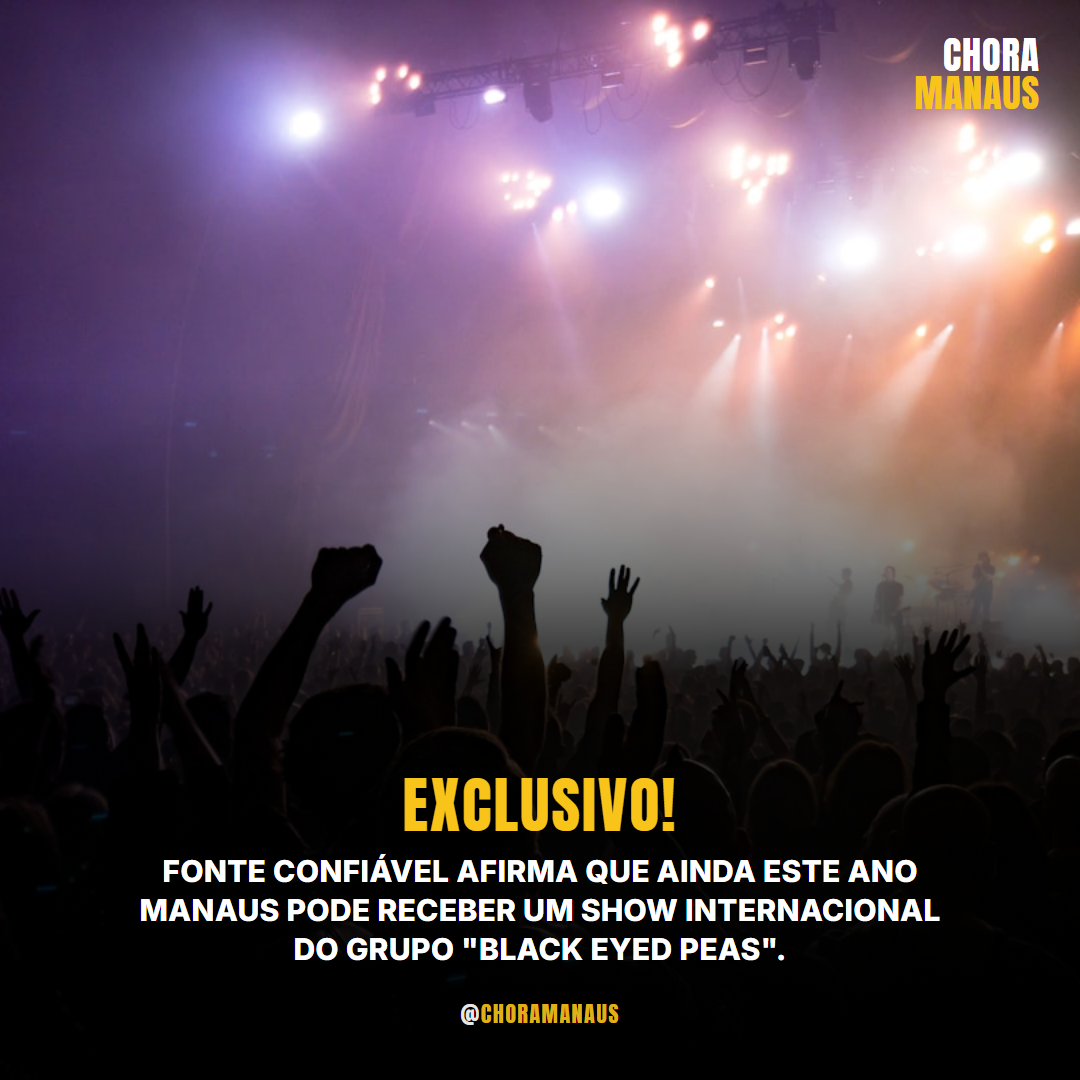
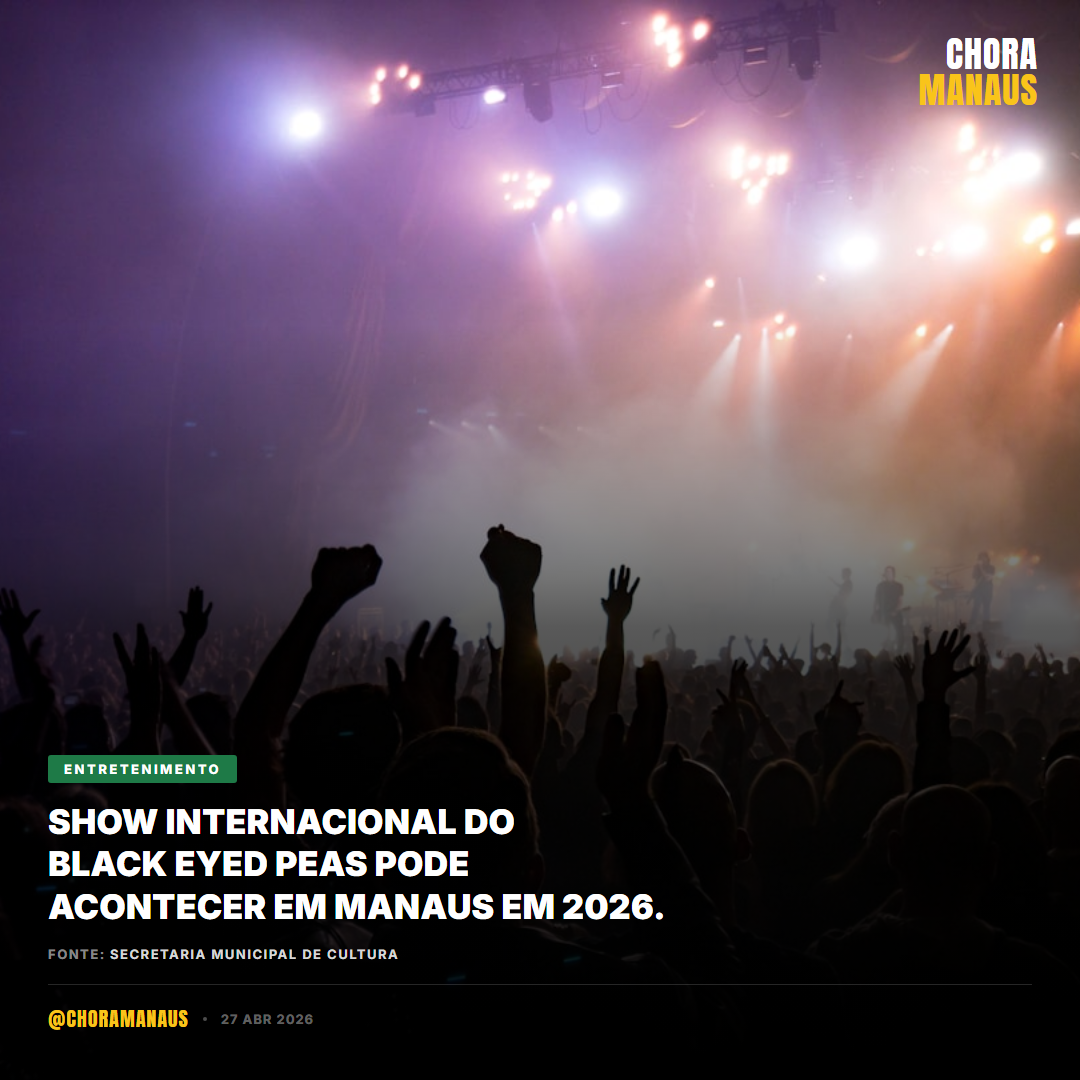
auto-sync: 2026-04-27 17:29

diff --git a/projetos/choramanaus/template-post-feed.html b/projetos/choramanaus/template-post-feed.html
@@ -23,23 +23,23 @@ body {
   overflow: hidden;
 }
 
-/* FOTO DE FUNDO — ocupa tudo */
+/* FOTO DE FUNDO */
 .bg-photo {
   position: absolute;
   inset: 0;
   background: url('https://images.unsplash.com/photo-1540039155733-5bb30b53aa14?w=1080&q=90') center top/cover no-repeat;
 }
 
-/* Gradiente embaixo para o texto aparecer */
+/* Gradiente suave na base */
 .bg-gradient {
   position: absolute;
   inset: 0;
   background: linear-gradient(
     to bottom,
-    rgba(0,0,0,0.0) 0%,
-    rgba(0,0,0,0.0) 35%,
-    rgba(0,0,0,0.75) 60%,
-    rgba(0,0,0,0.97) 100%
+    rgba(0,0,0,0.0)  0%,
+    rgba(0,0,0,0.0)  30%,
+    rgba(0,0,0,0.65) 58%,
+    rgba(0,0,0,0.95) 100%
   );
 }
 
@@ -47,7 +47,7 @@ body {
 .logo {
   position: absolute;
   top: 36px;
-  right: 40px;
+  right: 42px;
   text-align: right;
   z-index: 10;
   line-height: 1;
@@ -55,7 +55,7 @@ body {
 
 .logo-top {
   font-family: 'Anton', sans-serif;
-  font-size: 38px;
+  font-size: 36px;
   color: #fff;
   letter-spacing: 1px;
   text-transform: uppercase;
@@ -64,7 +64,7 @@ body {
 
 .logo-bottom {
   font-family: 'Anton', sans-serif;
-  font-size: 38px;
+  font-size: 36px;
   color: #F9C41A;
   letter-spacing: 1px;
   text-transform: uppercase;
@@ -78,46 +78,79 @@ body {
   left: 0;
   right: 0;
   z-index: 10;
-  padding: 0 48px 50px;
-  text-align: center;
+  padding: 0 48px 46px;
 }
 
-/* Tag tipo "EXCLUSIVO!" */
-.tag {
-  font-family: 'Anton', sans-serif;
-  font-size: 62px;
-  color: #F9C41A;
+/* Categoria — substituindo "EXCLUSIVO!" */
+.categoria {
+  display: inline-block;
+  background: #1E7A47;
+  color: #fff;
+  font-size: 13px;
+  font-weight: 800;
   text-transform: uppercase;
-  letter-spacing: 2px;
-  line-height: 1;
-  margin-bottom: 16px;
-  display: block;
+  letter-spacing: 2.5px;
+  padding: 6px 16px;
+  border-radius: 3px;
+  margin-bottom: 18px;
 }
 
-/* Manchete */
+/* Manchete — factual, sem clickbait */
 .headline {
   font-family: 'Inter', sans-serif;
-  font-size: 30px;
-  font-weight: 800;
+  font-size: 34px;
+  font-weight: 900;
   color: #fff;
   text-transform: uppercase;
-  line-height: 1.3;
-  letter-spacing: 0.3px;
-  margin-bottom: 28px;
+  line-height: 1.25;
+  letter-spacing: 0.2px;
+  margin-bottom: 18px;
 }
 
-/* Handle */
+/* Fonte da notícia */
+.fonte {
+  font-size: 13px;
+  color: rgba(255,255,255,0.55);
+  font-weight: 600;
+  text-transform: uppercase;
+  letter-spacing: 1.5px;
+  margin-bottom: 22px;
+}
+
+.fonte span {
+  color: rgba(255,255,255,0.85);
+}
+
+/* Separador + handle */
+.rodape {
+  display: flex;
+  align-items: center;
+  gap: 14px;
+  border-top: 1px solid rgba(255,255,255,0.15);
+  padding-top: 18px;
+}
+
 .handle {
   font-family: 'Anton', sans-serif;
-  font-size: 22px;
-  color: #fff;
-  letter-spacing: 1.5px;
+  font-size: 20px;
+  color: #F9C41A;
+  letter-spacing: 1px;
   text-transform: uppercase;
-  opacity: 0.9;
 }
 
-.handle span {
-  color: #F9C41A;
+.dot {
+  width: 4px;
+  height: 4px;
+  border-radius: 50%;
+  background: rgba(255,255,255,0.3);
+}
+
+.data {
+  font-size: 13px;
+  color: rgba(255,255,255,0.4);
+  font-weight: 600;
+  letter-spacing: 1px;
+  text-transform: uppercase;
 }
 </style>
 </head>
@@ -127,21 +160,26 @@ body {
   <div class="bg-photo"></div>
   <div class="bg-gradient"></div>
 
-  <!-- LOGO TOPO DIREITO -->
+  <!-- LOGO -->
   <div class="logo">
     <span class="logo-top">CHORA</span>
     <span class="logo-bottom">MANAUS</span>
   </div>
 
-  <!-- TEXTO INFERIOR -->
+  <!-- CONTEÚDO -->
   <div class="content">
-    <span class="tag">EXCLUSIVO!</span>
+    <div class="categoria">Entretenimento</div>
     <p class="headline">
-      Fonte confiável afirma que ainda este ano<br>
-      Manaus pode receber um show internacional<br>
-      do grupo "Black Eyed Peas".
+      Show internacional do<br>
+      Black Eyed Peas pode<br>
+      acontecer em Manaus em 2026.
     </p>
-    <div class="handle">@<span>CHORAMANAUS</span></div>
+    <p class="fonte">Fonte: <span>Secretaria Municipal de Cultura</span></p>
+    <div class="rodape">
+      <span class="handle">@choramanaus</span>
+      <div class="dot"></div>
+      <span class="data">27 Abr 2026</span>
+    </div>
   </div>
 </div>
 
